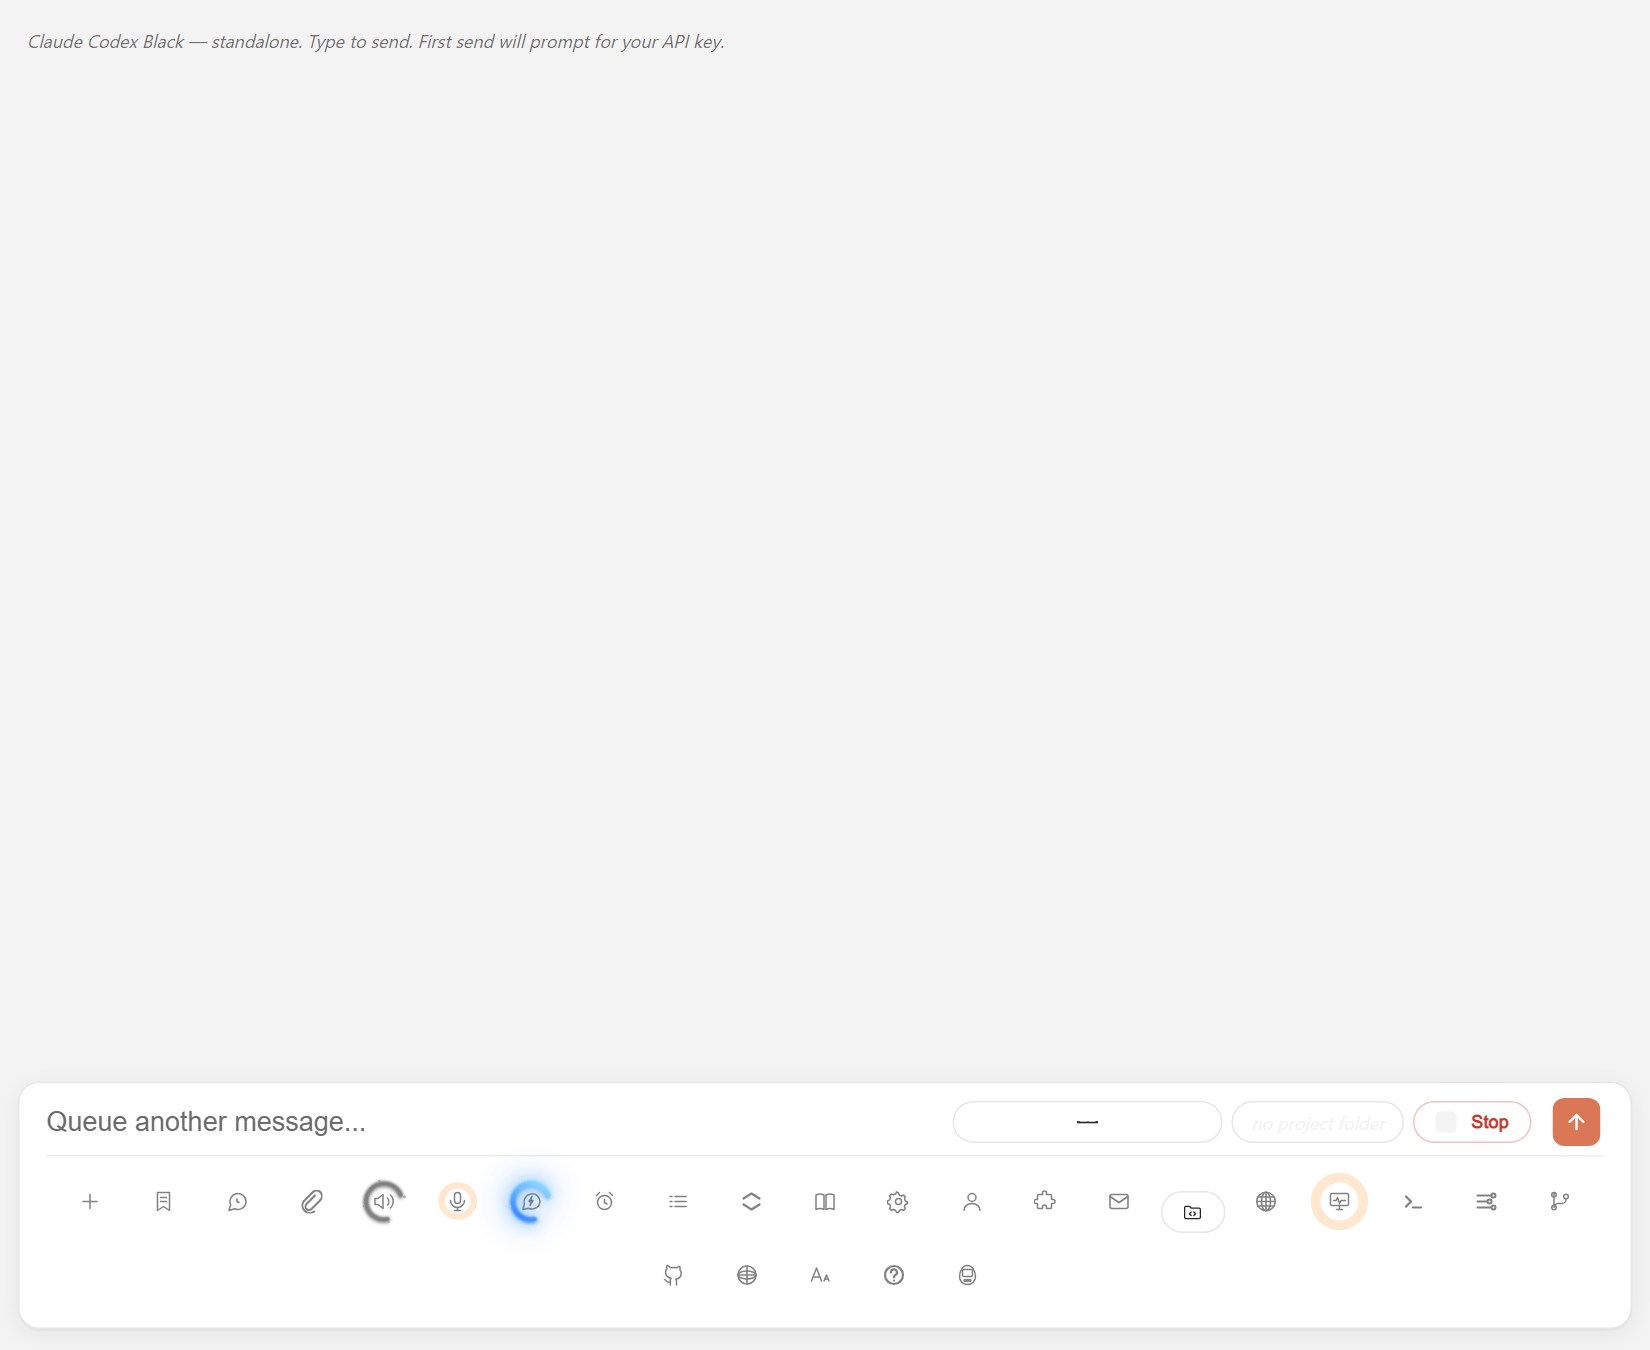
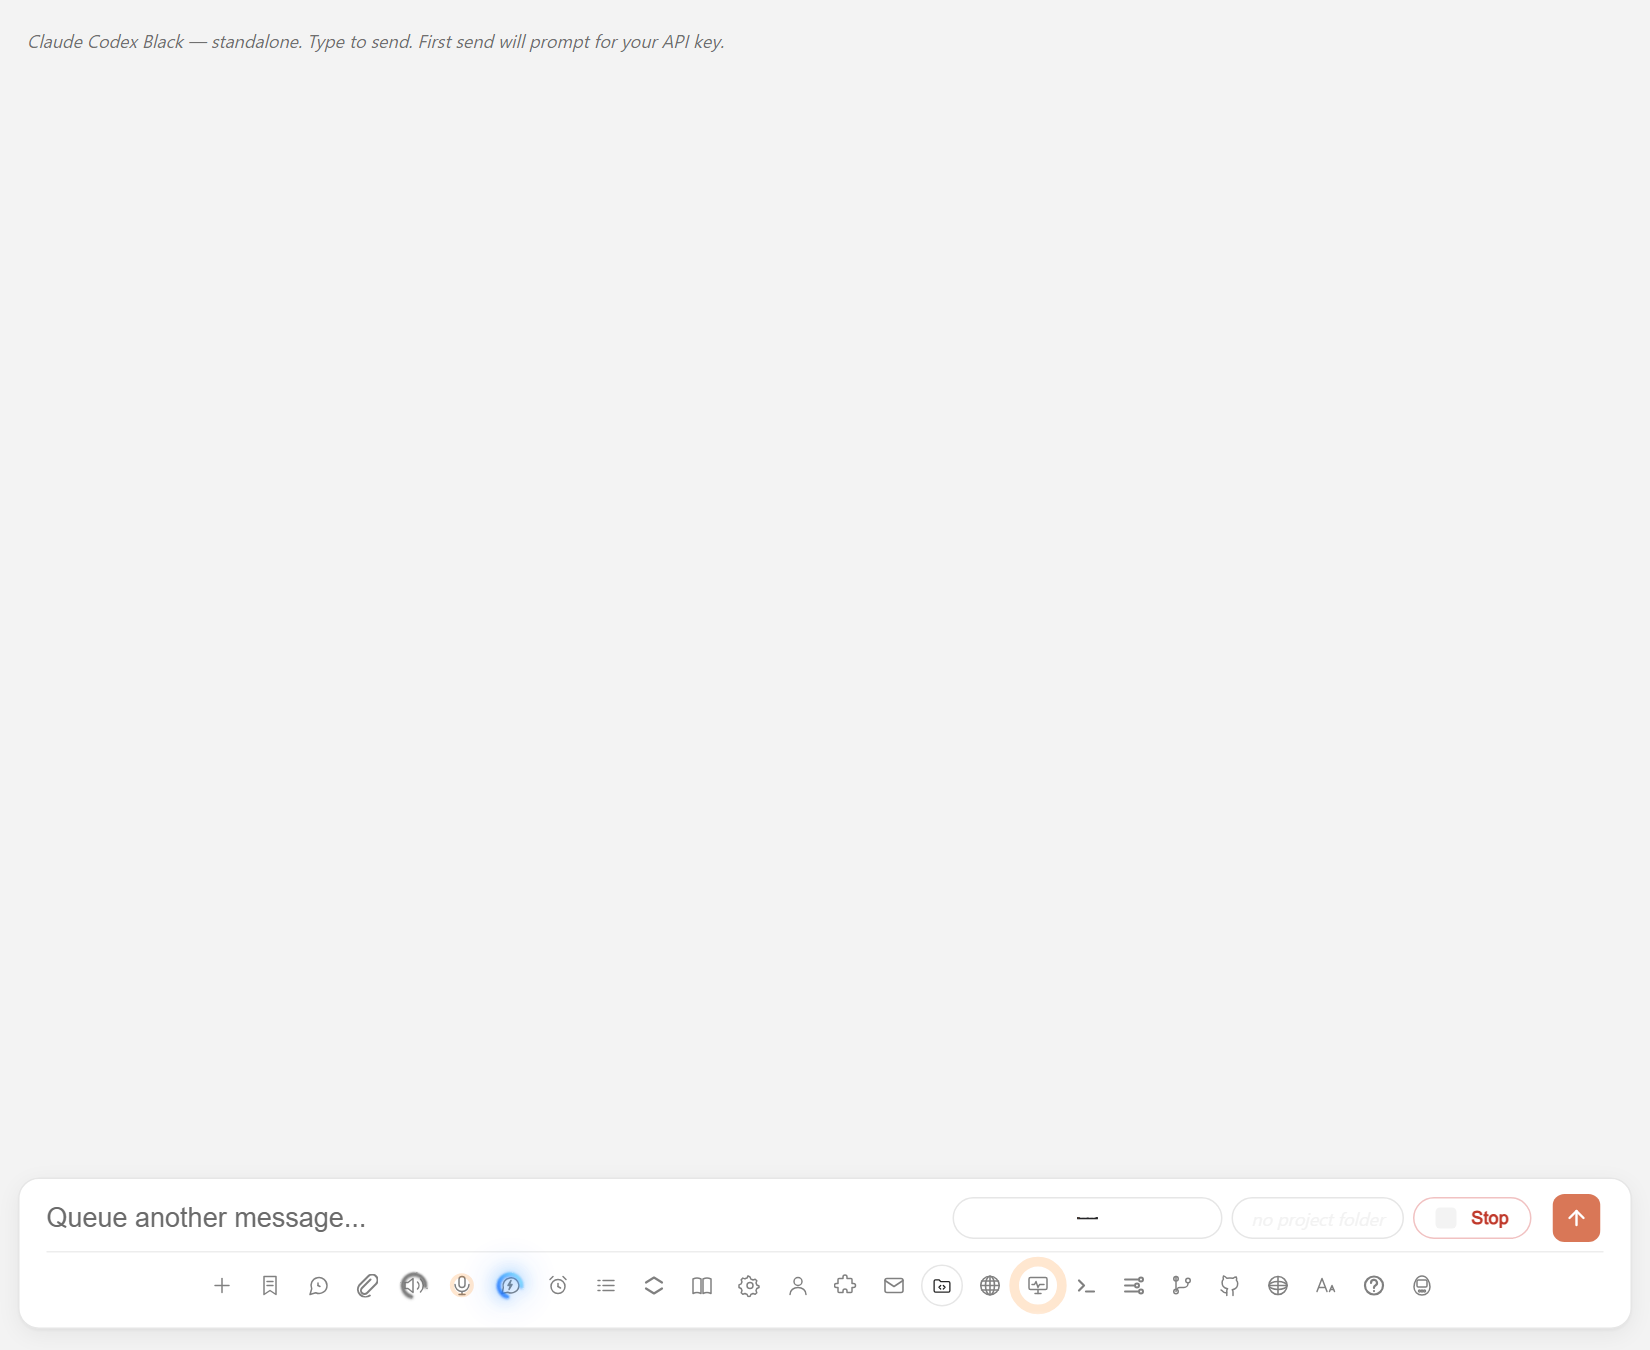
skin(claude-default): tighten toolbar button density to Claude Code spacing
The base .tool-button is 43px wide which left ~14px of dead padding
around each 16px icon. CC packs them at ~28px button + ~4px gap.
Override both for the claude-default toolbar so icons cluster tightly
instead of spreading evenly across the composer width.

diff --git a/skins/claude-default.skin/index.html b/skins/claude-default.skin/index.html
@@ -2710,6 +2710,24 @@ body {
   .prompt-toolbar {
     border-top: 1px solid rgba(0, 0, 0, 0.07) !important;
   }
+  /* Tighten button density to Claude-Code-like (~28px button + ~4px gap).
+     Base .tool-button is 43px wide which leaves ~14px of dead padding
+     around each 16px icon — CC packs them much tighter. */
+  .toolbar-tools .tool-button,
+  .prompt-toolbar .tool-button {
+    width: 28px !important;
+    height: 28px !important;
+    min-width: 28px !important;
+    padding: 0 !important;
+    margin: 0 !important;
+    border-radius: 6px !important;
+  }
+  .prompt-toolbar,
+  .toolbar-tools,
+  .prompt-toolbar-row {
+    gap: 4px !important;
+    row-gap: 4px !important;
+  }
   </style>
 
 <!-- Webview URI map — tiny inline script. Keep small; this is the only
